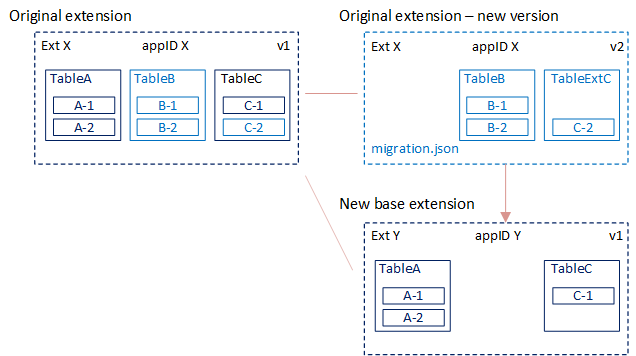
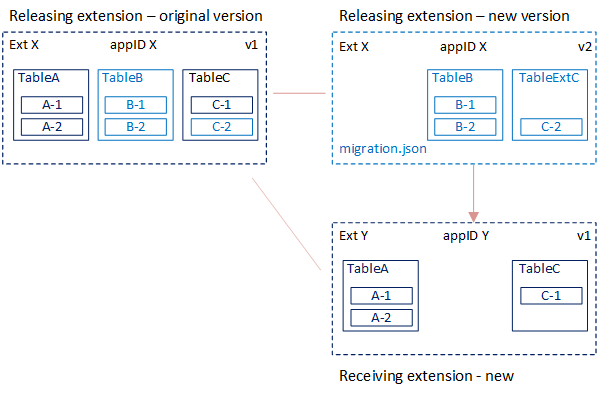
fix

diff --git a/dev-itpro/developer/devenv-migrate-table-fields.md b/dev-itpro/developer/devenv-migrate-table-fields.md
@@ -25,31 +25,47 @@ The process to migrate tables and fields to another extension depends on the mig
 
 ![Dependency graph](media/extension-dependency-graph.png "Dependency graph")  
 
+
+##### When to move down
+
 Moving objects from Extension Y to Extension X, is considered a *move down*. Typical move-down scenarios include:
 
-- You want to split an extension. You want to move common base tables to a separate extension that other extensions can have a dependency on.
-- You have a customized base application with its own ID. You want transition to use Microsoft Base Application. In this case, customizations remain in the current extension. Base objects are removed and ownership transferred to Microsoft Base Application.
+- Splitting an extension.
 
+    You want to move common tables to a separate extension that other extensions can have a dependency on.
+- Transitioning from a customized customized base application extension to the Microsoft Base Application.
+
+    You have a customized base application extension with its own ID. You want to transition to the Microsoft Base Application. In this case, customizations remain in the current extension. Base objects are removed and ownership transferred to Microsoft Base Application.
+
+- [add more]
 <!--
 - Moving objects to an extension that depends on an extension that you don't own, like the Microsoft Base Application or System Application.-->
+##### When to move up
 
-Moving objects from the Base Application extension to Extension X is a *move up*. Typical move-down scenarios include:
+Moving objects from the Base Application extension to Extension X is a *move up*. Typical move-up scenarios include:
 
-- Split an extension in two, with one dependent on the other.
+- Splitting an extension in two, with one dependent on the other.
 - You have customized base application with the Microsoft ID. You want to transition to use the Microsoft Base Application. You'll move customizations up to a new extension on top of the Microsoft Base Application.
+- [add more]
 
 #### Development
 
 Development involves making application code changes required for the move. In short, the work involves:
 
-- Creating a new extension that contains replicas of the tables or fields you want to move. This extension is referred to as the *destination extension*.  
-- Creating a new version of the existing extension in which the table and fields to be moved have been deleted. This extension is referred to as the *source extension*.
+- Creating a new extension that contains replicas of the tables or fields you want to move. This extension is referred to as the *releasing extension*.  
+- Creating a new version of the existing extension in which the table and fields to be moved have been deleted. This extension is referred to as the *receiving extension*.
 
-The key to the move is the *migration.json* file. You add the file to project for the source extension. This file provides a pointer to the ID of new base extension where tables and fields are to be moved. The *migration.json* is used in the deployment phase. Its purpose is to transfer ownership of tables and fields in the database from one extension to another. 
+The key to the move is the *migration.json* file. You add the file to project for the releasing extension. This file provides a pointer to the ID of new base extension where tables and fields are to be moved. The *migration.json* is used in the deployment phase. Its purpose is to transfer ownership of tables and fields in the database from one extension to another. For more information, see [Migration.json File](devenv-migration-json-file.md).
 
 #### Deployment
 
-The deployment phase is when the data is migrated to new tables in the database. In the phase, ownership of tables and fields is switched from one extension to another. Deployment involves publishing, syncing, upgrading, and installing extensions.
+The deployment phase is when the data is migrated to new tables in the database. In this phase, ownership of tables and fields is switched from one extension to another. Deployment involves publishing, syncing, upgrading, and installing extensions.
+
+The order that you synchronize extensions is important:
+
+- The receiving extensions must be synchronized first.
+- The releasing extensions, those extensions that include the migration.json file, must be synchronized last.   
+
 
 ## Move tables and fields down the dependency graph
 
@@ -59,15 +75,15 @@ This section explains how to migrate tables and fields down the dependency graph
 
 In the example, **TableB** and **Field C-1** are customizations. You'll keep these elements in the original extension, but create a new version without **TableA** and **TableC**. You'll move **TableA** and **TableC** down the dependency chain to a new, separate extension.
 
-### Create the destination extension (Ext Y)
+### Create the receiving extension (Ext Y)
 
-The destination extension will contain the table and fields that you want to move. In this example, these objects include **TableA** and **TableC**.
+The receiving extension will contain the table and fields that you want to move. In this example, these objects include **TableA** and **TableC**.
 
-1. Create an AL project for the destination extension.
+1. Create an AL project for the receiving extension.
 
-2. Add a table object definition for **TableA** that exactly matches its definition in the source extension **Ext X**.
+2. Add a table object definition for **TableA** that exactly matches its definition in the releasing extension **Ext X**.
 
-3. Add a table object definition for **TableC** that exactly matches it is the source extension **Ext X**, except don't include field **C-1**.
+3. Add a table object definition for **TableC** that exactly matches it is the releasing extension **Ext X**, except don't include field **C-1**.
 
 4. Make a note of the `ID` of the new extension. You'll use this ID in the next task.
 
@@ -75,9 +91,9 @@ The destination extension will contain the table and fields that you want to mov
 
 5. Compile the extension package.
 
-### Create a new version of the source extension (Ext X v2)
+### Create a new version of the releasing extension (Ext X v2)
 
-1. In the source extension AL project, add a migration.json file that points to the ID of the target extension.
+1. In the releasing extension AL project, add a migration.json file that points to the ID of the target extension.
 
     ```
     { 
@@ -93,7 +109,7 @@ The destination extension will contain the table and fields that you want to mov
 2. Delete the entire table object for **TableA**.
 3. Complete the following steps for **TableC**.
 
-    1. In the app.json file, set up a dependency on the new destination extension **Ext Y**.
+    1. In the app.json file, set up a dependency on the new receiving extension **Ext Y**.
     2. Add a table extension object **TableExtC**.
     3. In table extension object **TableExtC**, add a field definition for field **C-1** that matches its definition in the original **TableC** object.
     4. Delete the original **TableC** object.
@@ -102,25 +118,25 @@ The destination extension will contain the table and fields that you want to mov
 
 ### Deploy the extensions
 
-1. Uninstall the old version of the source extension **Ext X**.
+1. Uninstall the old version of the releasing extension **Ext X**.
 
-2. Publish the new destination extension **Ext Y** and source extension version **Ext X v2**.
+2. Publish the new receiving extension **Ext Y** and releasing extension version **Ext X v2**.
 
-3. Synchronize the destination extension **Ext Y**.
+3. Synchronize the receiving extension **Ext Y**.
 
-    This step creates empty database tables for **TableA** and **TableC** that are owned by the destination extension **Ext Y**.
+    This step creates empty database tables for **TableA** and **TableC** that are owned by the receiving extension **Ext Y**.
 
     > [!IMPORTANT]
-    > The destination extension must always be synchronized first.
+    > The receiving extension must always be synchronized first.
 
-4. Synchronize the new version of the source extension **Ext Y**.
+4. Synchronize the new version of the releasing extension **Ext Y**.
 
     This step does the following:
-    - Migrates the data from the original tables **TableA** and **TableC** to the destination extension tables.
-    - Deletes the original tables  **TableA** and **TableC** owned by the source extension **Ext X**.
-    - Deletes column **C-1** from the source table **Ext X**.
-5. Install the destination extension **Ext Y**.
-6. Run a data upgrade the new source extension version **EXT X v2**.
+    - Migrates the data from the original tables **TableA** and **TableC** to the receiving extension tables.
+    - Deletes the original tables  **TableA** and **TableC** owned by the releasing extension **Ext X**.
+    - Deletes column **C-1** from the releasing table **Ext X**.
+5. Install the receiving extension **Ext Y**.
+6. Run a data upgrade the new releasing extension version **EXT X v2**.
 
 ## Move tables and fields up the dependency graph
 
@@ -128,7 +144,7 @@ This section explains how to migrate tables and fields up the dependency graph. 
 
 ![Data migration](media/migrate-tables-fields-up-overview.png "data migration")
 
-In the example, **TableB** and **Field C-1** are customizations. You'll move these elements from the original source extension up to a new extension. This new extension will have a dependency on the original extension. You'll keep **TableA** and **TableC** in the original extension.
+In the example, **TableB** and **Field C-1** are customizations. You'll move these elements from the original releasing extension up to a new extension. This new extension will have a dependency on the original extension. You'll keep **TableA** and **TableC** in the original extension.
 
 To accommodate data migration, you'll have to create an extension that is only used for deployment. This extension is **Ext Z** in the figure. There are two stages of deployment:
 
@@ -139,11 +155,11 @@ To accommodate data migration, you'll have to create an extension that is only u
 
 ### Create the transition extension (Ext Z v1)
 
-The transition extension will contain replicas of all object definitions in the source extension, except logic code. In the illustration, these objects include **TableA**, **TableB**, and **TableC** and current their field definitions. The transition extension is **Ext Z**.
+The transition extension will contain replicas of all object definitions in the releasing extension, except logic code. In the illustration, these objects include **TableA**, **TableB**, and **TableC** and current their field definitions. The transition extension is **Ext Z**.
 
 1. Create an AL project for the transition extension.
 
-2. Add a table object that exactly matches the table object definitions for **TableA**, **TableB**, and **TableC** in the source extension.
+2. Add a table object that exactly matches the table object definitions for **TableA**, **TableB**, and **TableC** in the releasing extension.
 
 3. Compile the extension package.
 
@@ -151,11 +167,11 @@ The transition extension will contain replicas of all object definitions in the 
 
     For purposes of the example, the ID is `11111111-aaaa-2222-bbbb-333333333333`.
 
-### Create an empty version the source extension (Ext X v2)
+### Create an empty version the releasing extension (Ext X v2)
 
-In this step, you create a new version of the source extension that doesn't contain any objects. It only contains a `migration.json` file that points to **Ext Z**.
+In this step, you create a new version of the releasing extension that doesn't contain any objects. It only contains a `migration.json` file that points to **Ext Z**.
 
-1. In the source extension AL project, add a migration.json file that points to the ID of the transition extension **Ext Z**.
+1. In the releasing extension AL project, add a migration.json file that points to the ID of the transition extension **Ext Z**.
 
     ```
     { 
@@ -172,26 +188,26 @@ In this step, you create a new version of the source extension that doesn't cont
 3. In the app.json file, increase the `version` value.
 4. Compile a new version of the extension package.
 
-### Create a destination extension (Ext Y v1)
+### Create a receiving extension (Ext Y v1)
 
-You now create a new extension that contains the customization you want to move from the source. In this example, the customizations include **TableB** and a **TableExtC**.
+You now create a new extension that contains the customization you want to move from the releasing. In this example, the customizations include **TableB** and a **TableExtC**.
 
 1. Create an AL project for **Ext Y**.
-2. In the app.json file, set up a dependency on the source extension **Ext X**.
-3. Add a table definition and code for **TableB** that exactly matches the definition in the original source extension.
-4. Add a table extension object called **TableExtC**. Then, add a field definition for field **C-2** that matches its definition in the original **TableC** object of the source extension.
+2. In the app.json file, set up a dependency on the releasing extension **Ext X**.
+3. Add a table definition and code for **TableB** that exactly matches the definition in the original releasing extension.
+4. Add a table extension object called **TableExtC**. Then, add a field definition for field **C-2** that matches its definition in the original **TableC** object of the releasing extension.
 5. Compile the extension package.
 6. Make a note of the `ID` of the new extension. You'll use this ID in the next task.
 
     For purposes of the example, the ID is `44444444-cccc-5555-dddd-666666666666`.
 
-### Create a final version of source extension (Ext X v3)
+### Create a final version of releasing extension (Ext X v3)
 
-In this step, you create another version of the source extension **Ext X**. This version will contain the objects and code that you want to finally publish.
+In this step, you create another version of the releasing extension **Ext X**. This version will contain the objects and code that you want to finally publish.
 
 1. Create an AL project for **Ext X**.
-2. Add a table definition and code for **TableA** that exactly matches the definition in the original source extension.
-3. Add a table object for **TableC** and field definition for **C-1** that matches the definitions in the original **TableC** object of the source extension.
+2. Add a table definition and code for **TableA** that exactly matches the definition in the original releasing extension.
+3. Add a table object for **TableC** and field definition for **C-1** that matches the definitions in the original **TableC** object of the releasing extension.
 3. In the app.json file, increase the `version` value.
 4. Compile the extension package.
 
@@ -199,7 +215,7 @@ In this step, you create another version of the source extension **Ext X**. This
 
 In this step, you create a new version of **Ext Z** that only contains a `migration.json` file. This `migration.json` file points the IDS of **Ext X** and **Ext Y**. The file is used to release ownership.
 
-1. In the extension AL project, add a migration.json file that points to the IDs of the source extension **Ext X** and destination extension **Ext Y**.
+1. In the extension AL project, add a migration.json file that points to the IDs of the releasing extension **Ext X** and receiving extension **Ext Y**.
 
     ```
     { 
@@ -222,10 +238,10 @@ In this step, you create a new version of **Ext Z** that only contains a `migrat
 
 ### Deploy the extensions
 
-1. Uninstall the current version of the source extension **Ext X**.
+1. Uninstall the current version of the releasing extension **Ext X**.
 2. Complete the following steps for the first stage of deployment:
 
-    1. Publish the transition extension **Ext Z** and empty version of **Ext X v2**
+    1. Publish the transition extension **Ext Z** and empty version of **Ext X v2**.
     2. Synchronize the transition extension **Ext Z**.
     
        This step creates empty database tables **TableA**, **TableB**, and **TableC** that are owned by **Ext Z**.
@@ -233,7 +249,7 @@ In this step, you create a new version of **Ext Z** that only contains a `migrat
        > [!IMPORTANT]
         > Extensions receiving table objects must be synced first. Extension releasing/giving away table objects must be synced last.
 
-    3. Synchronize the source extension **Ext X v1**.
+    3. Synchronize the releasing extension **Ext X v1**.
 
         This step migrates data from **TableA**, **TableB**, and **TableC** owned by **Ext X** to the tables owned by **Ext Z**.
 2. Complete the following steps for the second stage of deployment:
@@ -242,14 +258,13 @@ In this step, you create a new version of **Ext Z** that only contains a `migrat
     2. Synchronize the extensions in the following order: **Ext X**, **Ext Y**, and **Ext Z**.
     
     This step creates empty tables **TableA**, **TableB**, and **TableC** in the database. The tables are owned by **Ext Z**.
-    3. Synchronize the source extension **Ext X v1**.
+    3. Synchronize the releasing extension **Ext X v1**.
 
         This step migrates data from the original tables **TableA**, **TableB**, and **TableC** owned by **Ext X** to the matching tables owned by **Ext Z**.
     
         This step migrates the data in the original table to the target extension tables. It will also delete the columns in the original table.
 5. Install the new target extension.
 6. Upgrade the original extension.
-
 
 <!--
 PS C:\Windows\system32> Publish-NAVApp bc160 -Path "C:\Users\jswymer\Documents\AL\ExtX\Default publisher_ExtX_1.0.0.0.app" -SkipVerification
